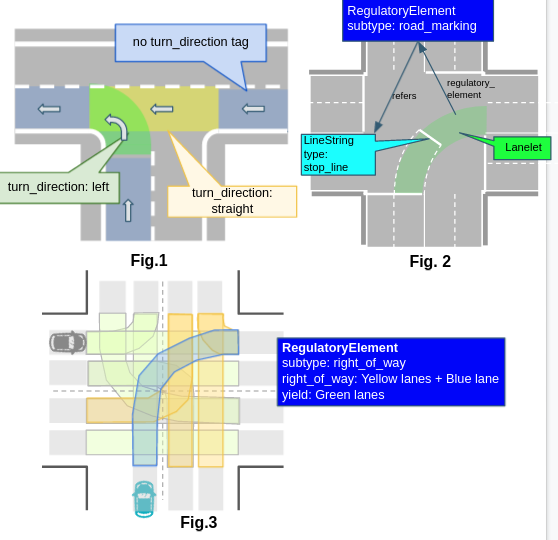
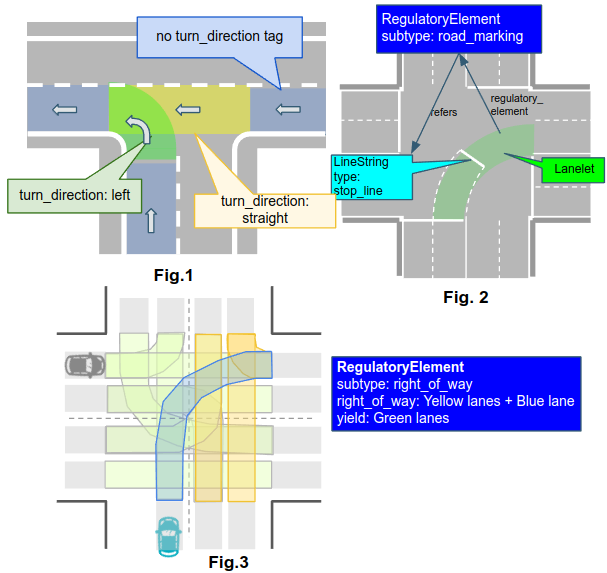
docs(intersection_module): fix intersection document images (autowarefoundation/autoware_universe#1368)

Changed region(s): [[0.0, 0.0, 1.0, 1.0]]

diff --git a/planning/behavior_velocity_planner/intersection-design.md b/planning/behavior_velocity_planner/intersection-design.md
@@ -7,7 +7,7 @@ This module is designed for rule-based intersection velocity decision that is ea
 
 In addition, the external users / modules (e.g. remote operation) to can intervene the STOP/GO decision for the vehicle behavior. The override interface is expected to be used, for example, for remote intervention in emergency situations or gathering information on operator decisions during development.
 
-![brief](./docs/intersection/intersection.svg)
+![brief](./docs/intersection/intersection.drawio.svg)
 
 ### Activation Timing
 